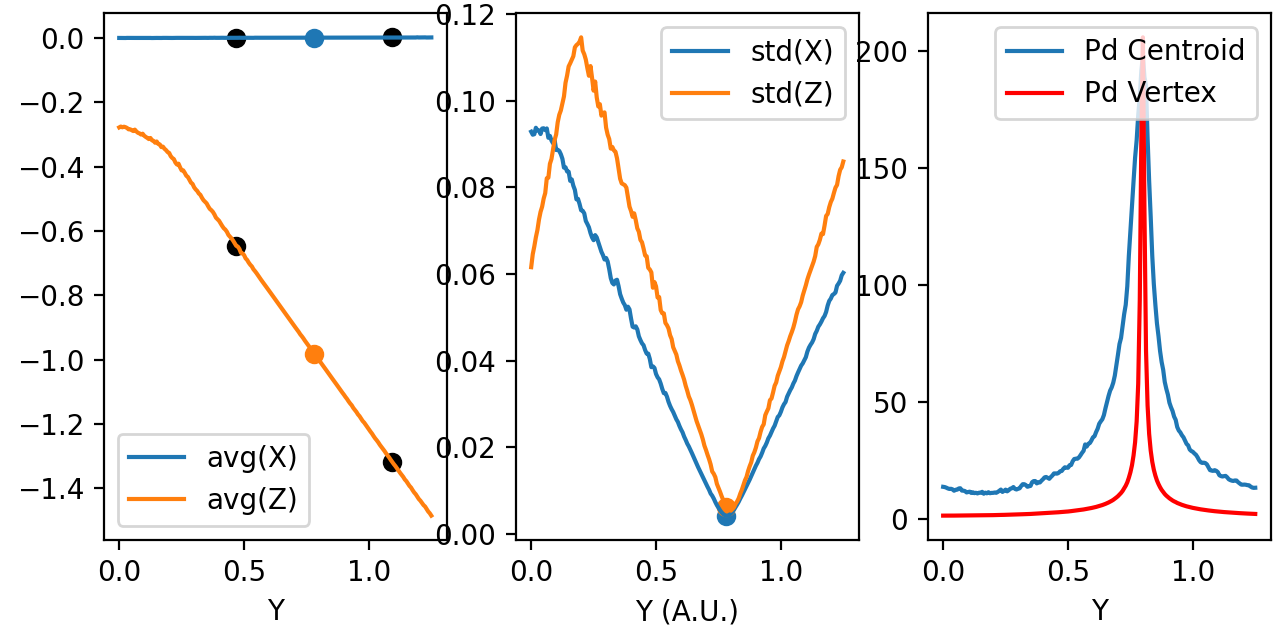
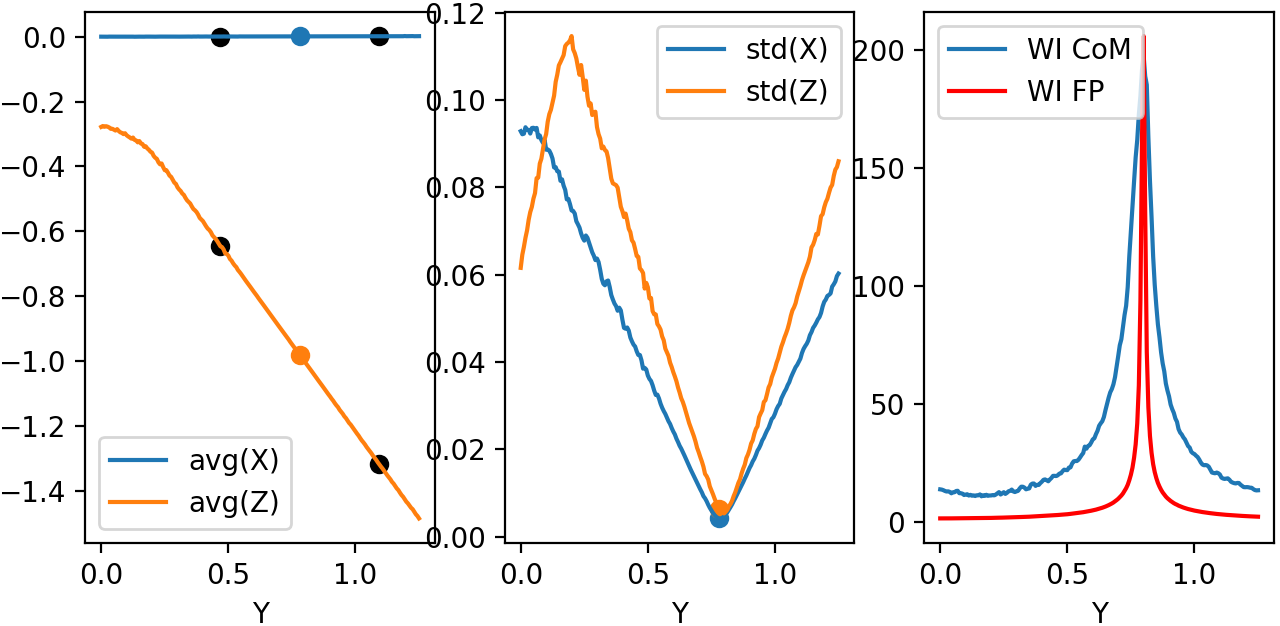
v1.0.24. Re-run and updated example 04. Looks good now. Needs to finish .rst.

Changed region(s): [[0.0, 0.0, 1.0, 1.0], [0.8438, 0.9409, 0.875, 0.9712]]

diff --git a/orsaytrace/trace.py b/orsaytrace/trace.py
@@ -973,7 +973,23 @@ class Simu:
 
         Creates a diverging source centered at [0, 0, 0] with numerical aperture 0.22 and radius 0.3.
 
+        Raises
+        ------
+        AssertionError
+            If numerical aperture is higher than 0, propagation vector must be aligned with an axis. This
+            function does not create an angle cone for an arbitrary propagation vector.
         '''
+
+
+        if na>0:
+            check_list = [normal[i] == 0 for i in range(3)]
+            check_list.sort()
+            assert check_list[1] #second element is true so we have at least two zeros
+
+        rot_axis = numpy.subtract([1, 1, 1], normal)
+        na_mesh = numpy.linspace(-na, na, angles)
+        x_na_mesh, y_na_mesh = numpy.meshgrid(na_mesh, na_mesh)
+
         xc, yc, zc = c
         x = numpy.arange(xc-r, xc+self.res, self.res)
         y = numpy.arange(yc-r, yc+self.res, self.res)
@@ -1128,6 +1144,7 @@ class Simu:
         .. math:: 2pp * (Z-  Z0) = (Y-Y0)^{2} - (X-X0)^{2}
 
         '''
+
         def assign(pos):
             xpos, ypos, zpos = pos
             ind = self.pos_to_grid([xpos, ypos, zpos])
@@ -1138,7 +1155,7 @@ class Simu:
         ymax = y0 + 0.5*th; ymin = y0 - 0.5*th
         xmax = x0 + 0.5*wid; xmin = x0 - 0.5*wid
         zmax = z0; zmin = z0 - (1/2*pp)*(max(abs(ymax-y0), abs(ymin-y0))**2+max(abs(xmax-x0), abs(xmin-x0))**2)
-        
+
         x = numpy.arange(x0, xmax, self.res/self.ss)
         y = numpy.arange(y0, ymax, self.res/self.ss)
         z = numpy.arange(zmin, z0, self.res/self.ss)

diff --git a/orsaytrace/Examples/example04.py b/orsaytrace/Examples/example04.py
@@ -5,7 +5,7 @@ mpl.use('TkAgg')
 import matplotlib.pyplot as plt
 from matplotlib.animation import FuncAnimation, PillowWriter
 
-x, y, z, res = 5, 5, 10, 0.015
+x, y, z, res = 5, 5, 10, 0.04
 
 focus = 0.3
 yvertex = 0.8
@@ -13,7 +13,7 @@ thickness = 1.2
 p = 2.0
 r = 0.2
 
-xmax, xmin, zmax, zmin = 0.3, -0.3, -0.25, -2.0
+xmax, xmin, zmax, zmin = 0.35, -0.35, -0.25, -2.0
 
 y_array = numpy.linspace(0, y/4, 201)
 
@@ -23,7 +23,7 @@ a.d2_source(r, [0, 0, -z/2], [0, 0, 1], 0.0, 1)
 
 a.create_parabolic_surface_element([0.0, yvertex, 0.0], -1.0, 2*thickness, 3.0, p) 
 a.create_rectangle_element([-x/2, x/2, yvertex-focus, y/2, -z/2, z/2], 1.0, [0, 0, 0])
-a.rotate(numpy.pi/64, [0, 1, 0], [0, yvertex, 0.0], [-1.5, 1.5, -1.5, 1.5, -1.5, 1.5])
+#a.rotate(numpy.pi/64, [0, 1, 0], [0, yvertex, 0.0], [-0.5, 0.5, -0.5, 0.5, -2.0, 0])
 
 for y in y_array:
     a.create_analysis_plan([0, 1, 0], y, reflection_count = 1)

diff --git a/setup.py b/setup.py
@@ -2,7 +2,7 @@ from distutils.core import setup
 setup(
         name='orsaytrace',
         packages = ['orsaytrace'],
-        version = '1.0.23',
+        version = '1.0.24',
         license = 'MIT',
         description = 'Flexible ray tracing for optics',
         long_description = open('README.rst').read(),

diff --git a/docs/source/examples.rst b/docs/source/examples.rst
@@ -420,7 +420,7 @@ used point in x-z plan [0, -p/2]. As we know from a parabola, this is its focal 
 
     *Figure 4.1: Simulation starting point using a resolution of 0.05.*
 
-Both plots above explains our setup. Photons arrive with no divergence and converges to the parabola focal point.
+Figures 4.1 and 4.2 explain our setup. Photons arrive with no divergence and converges to the parabola focal point.
 In order to examine this problem, we will plot position average and standard deviation for X-Z coordinates. We will
 also calculated the inverse of the distance using two reference points, as explained before
 
@@ -433,33 +433,188 @@ point. We will discuss the meaning of this analyses in results.
 
     *Figure 4.2: Simulation end point using a resolution of 0.05.*
 
+As we will se in results, we have also performed rotation measurements. Rotation method checks
+for active grid point, such as :math:`n_{refr} \neq 1`. It is an expensive method because it does
+not know previous what the user have added to the grid. In this sense, we can perform smarter rotations
+if you understand your problem. In this case, i have done a rotation using the ROI correspondent
+to incident photons.
+
+.. figure:: figures/Example04_rotation.png
+    :align: center
+
+    *Figure 4.3: Rotation regions was not perfomed in the whole parabolic mirror.*
+
+
+
 Results
 *******
+
+First simulation was done using a straight mirror, with no tilt :math:`\theta = 0 ^{\circ}`.
+Figure 4.4 shows several expected results. X average (top left) does not change during
+beam propagation, while Z became more and more negative, meaning beam has a reflective
+component that faces the initial source. Standard deviation in top center shows we have
+an non-astigmatic source and both X and Z focus at the same point. Top right shows that beam
+has an much more smaller *apparent depth of focus* in Y axis with respect to its focal point
+when compared to propagation axis (not aligned with Y axis).
 
 .. figure:: figures/Example04_res0-008.png
     :align: center
 
-    *Figure 4.3: Left: Average position for X-Z. Center: Standard deviation for x-Z. Right: Weighted inverse for center of
+    *Figure 4.4: Left: Average position for X-Z. Center: Standard deviation for x-Z. Right: Weighted inverse for center of
     mass and for parabola focal point.*
+
+Figure 4.5 shows snapshots of beam in 3 different Y planes, where the center one is defined by
+the minimum of the standard deviation (focal point). We see focal point corresponds to
+:math:`(x, z) = (0, -p/2)`. We also see that beam propagates somewhat with a elliptical shape.
 
 .. figure:: figures/Example04_res0-008_02.png
     :align: center
 
-    *Figure 4.4: Three distinct snapshots of the beam propagating in Y direction. Position are relative to
+    *Figure 4.5: Three distinct snapshots of the beam propagating in Y direction. Position are relative to
     the black dots shown in previous avera figure.*
+
+In Figure 4.6, we have used animation module present in the standard matplotlib library to produce
+an animated image .gif::
+
+>>> from matplotlib.animation import FuncAnimation, PillowWriter
 
 .. figure:: figures/Example04_res0.008.gif
     :align: center
 
-    *Figure 4.5: Left: Animation of X-Z plane of the beam propagating in Y axis.*
+    *Figure 4.6: Left: Animation of X-Z plane of the beam propagating in Y axis.*
 
-.. figure:: figures/Example04_res0.015_pi-32_tilted.gif
+
+
+
+.. figure:: figures/Example04_res0-01_tilted_pi-64.png
     :align: center
 
-    *Figure 4.5: Left: Animation of X-Z plane of the beam propagating in Y axis.*
+    *Figure 4.7 Left: Animation of X-Z plane of the beam propagating in Y axis.*
+
+.. figure:: figures/Example04_res0-01_02_tilted_pi-64.png
+    :align: center
+
+    *Figure 4.8: Left: Animation of X-Z plane of the beam propagating in Y axis.*
+
+.. figure:: figures/Example04_res0-01_pi-64_tilted.gif
+    :align: center
+
+    *Figure 4.9: Left: Animation of X-Z plane of the beam propagating in Y axis.*
 
 Code
 ****
+
+example04.py::
+
+    import orsaytrace.trace as ot
+    import numpy
+    import matplotlib as mpl
+    mpl.use('TkAgg')
+    import matplotlib.pyplot as plt
+    from matplotlib.animation import FuncAnimation, PillowWriter
+
+    x, y, z, res = 5, 5, 10, 0.04
+
+    focus = 0.3
+    yvertex = 0.8
+    thickness = 1.2
+    p = 2.0
+    r = 0.2
+
+    xmax, xmin, zmax, zmin = 0.35, -0.35, -0.25, -2.0
+
+    y_array = numpy.linspace(0, y/4, 201)
+
+    a = ot.Simu(x, y, z, res)
+
+    a.d2_source(r, [0, 0, -z/2], [0, 0, 1], 0.0, 1)
+
+    a.create_parabolic_surface_element([0.0, yvertex, 0.0], -1.0, 2*thickness, 3.0, p)
+    a.create_rectangle_element([-x/2, x/2, yvertex-focus, y/2, -z/2, z/2], 1.0, [0, 0, 0])
+    #a.rotate(numpy.pi/64, [0, 1, 0], [0, yvertex, 0.0], [-0.5, 0.5, -0.5, 0.5, -2.0, 0])
+
+    for y in y_array:
+        a.create_analysis_plan([0, 1, 0], y, reflection_count = 1)
+
+    #a.show_created_elements('all-noplan')
+    photon_lists = a.run()
+    #a.show_elements(photon_lists, 'all-noplan')
+
+    pd = numpy.asarray([photon_list.get_average_weighted_inverse() for photon_list in photon_lists])
+    pdvertex = numpy.asarray([photon_list.get_average_weighted_inverse_axis_y([0, -p/2.])for photon_list in photon_lists])
+    avg = numpy.asarray([photon_list.avg_position() for photon_list in photon_lists])
+    pos_max = numpy.asarray([photon_list.max_position() for photon_list in photon_lists])
+    pos_min = numpy.asarray([photon_list.min_position() for photon_list in photon_lists])
+    std = numpy.asarray([photon_list.std_position() for photon_list in photon_lists])
+
+
+    list_number = (numpy.where(std[:, 0]==min(std[:, 0])))[0][0]
+    fac = 50
+
+    fig, axes = plt.subplots(nrows=1, ncols=3, sharex=False, sharey=False, dpi=200)
+    axes[0].plot(y_array, avg[:, 0], label='avg(X)')
+    axes[0].scatter(y_array[list_number], avg[list_number, 0])
+    axes[0].plot(y_array, avg[:, 2], label='avg(Z)')
+    axes[0].scatter(y_array[list_number], avg[list_number, 2])
+
+    axes[0].scatter(y_array[list_number-fac], avg[list_number-fac, 0], c='black')
+    axes[0].scatter(y_array[list_number+fac], avg[list_number+fac, 0], c='black')
+    axes[0].scatter(y_array[list_number-fac], avg[list_number-fac, 2], c='black')
+    axes[0].scatter(y_array[list_number+fac], avg[list_number+fac, 2], c='black')
+
+    axes[0].set_xlabel('Y')
+    axes[0].legend()
+
+    axes[1].plot(y_array, std[:, 0], label='std(X)')
+    axes[1].scatter(y_array[list_number], std[list_number, 0])
+    axes[1].plot(y_array, std[:, 2], label = 'std(Z)')
+    axes[1].scatter(y_array[list_number], std[list_number, 2])
+    axes[1].set_xlabel('Y')
+    axes[1].legend()
+
+    axes[2].plot(y_array, pd, label='WI CoM')
+    axes[2].plot(y_array, pdvertex, label='WI FP', c='red')
+    axes[2].set_xlabel('Y')
+    axes[2].legend()
+    plt.show()
+
+    lists_pos = numpy.asarray([photon_list.get_positions() for photon_list in photon_lists])
+
+    fig, axes = plt.subplots(nrows=1, ncols=3, sharex=False, sharey=False, dpi=200)
+    axes[0].hist2d(lists_pos[list_number-fac][:, 0], lists_pos[list_number-fac][:, 2], 100, range=[[xmin, xmax], [zmin, zmax]])
+    axes[1].hist2d(lists_pos[list_number][:, 0], lists_pos[list_number][:, 2], 100, range=[[xmin, xmax], [zmin, zmax]])
+    axes[2].hist2d(lists_pos[list_number+fac][:, 0], lists_pos[list_number+fac][:, 2], 100, range=[[xmin, xmax], [zmin, zmax]])
+
+    axes[0].scatter([0], [-p/2], c='red', alpha=0.3)
+    axes[1].scatter([0], [-p/2], c='red', alpha=0.3)
+    axes[2].scatter([0], [-p/2], c='red', alpha=0.3)
+
+    axes[0].set_xlabel('X'); axes[0].set_ylabel('Z')
+    axes[1].set_xlabel('X'); axes[1].set_ylabel('Z')
+    axes[2].set_xlabel('X'); axes[2].set_ylabel('Z')
+    plt.show()
+
+
+    fig, ax = plt.subplots()
+    plt.hist2d(lists_pos[0][:, 0], lists_pos[0][:, 2], 101, range=[[xmin, xmax], [zmin, zmax]])
+
+    def init():
+        pass
+
+    def update(i):
+        plt.clf()
+        plt.hist2d(lists_pos[int(i)][:, 0], lists_pos[int(i)][:, 2], 101, range=[[xmin, xmax], [zmin, zmax]],
+                   cmap=plt.cm.jet)
+        plt.text(0.18, -0.4, 'y = '+format(y_array[i], '.2f'), fontsize=12, color='white', weight='bold')
+        plt.xlabel('x')
+        plt.ylabel('z')
+        plt.title('X-Z Plan')
+    ani = FuncAnimation(fig, update, range(len(y_array)), init_func=init)
+
+    writer = PillowWriter(fps=40)
+    ani.save("demo_parabolic.gif", writer=writer)
+
+
 
 Example 05
 ----------
